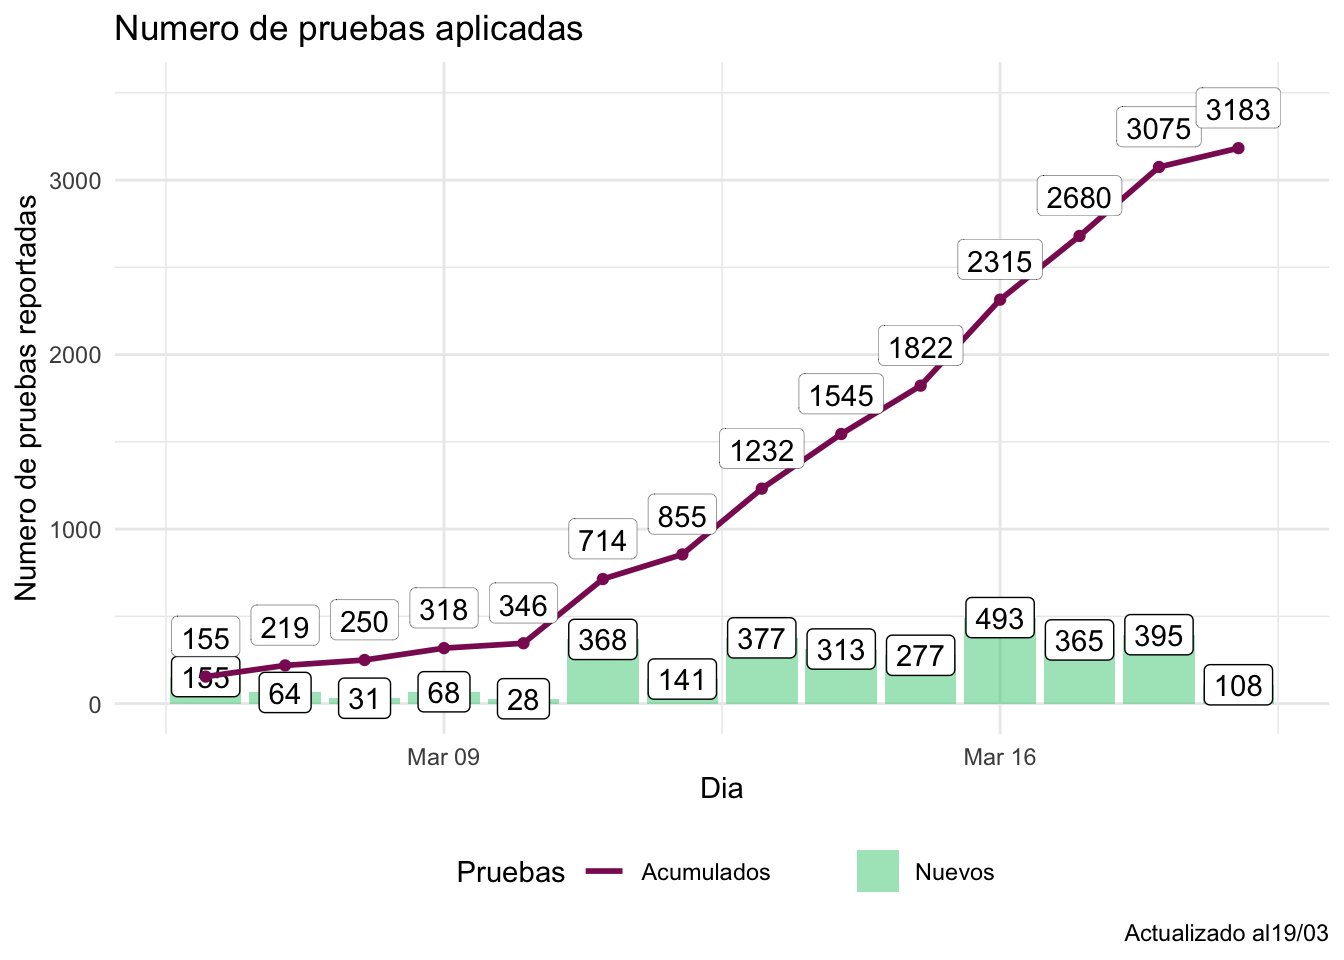
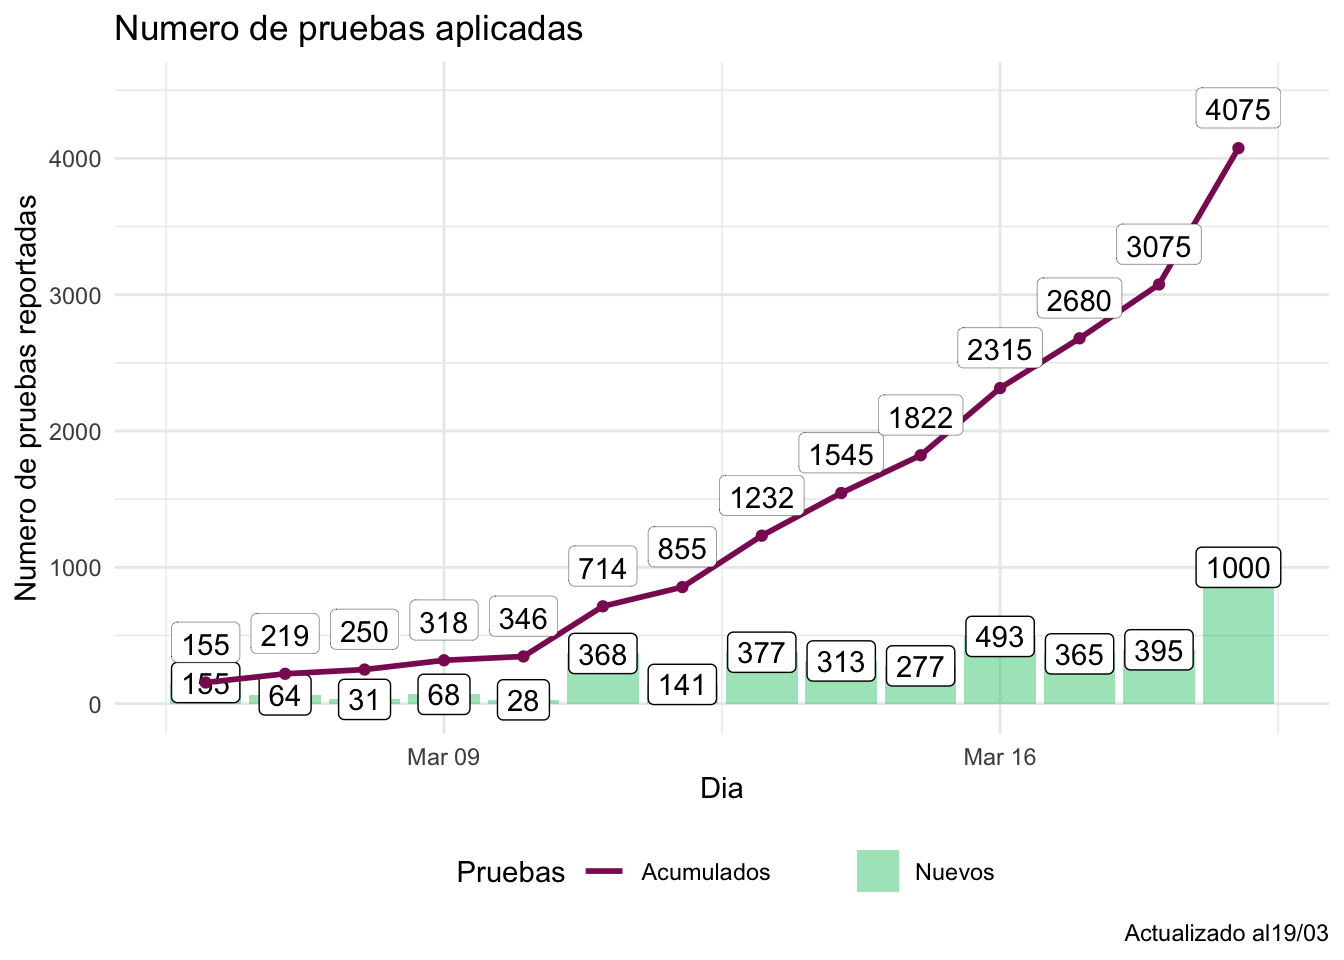
update_03_19

diff --git a/docs/Propagacion.html b/docs/Propagacion.html
@@ -650,16 +650,16 @@ Nuevos_Positivos
 2020-03-19
 </td>
 <td style="text-align:right;">
-155
+234
 </td>
 <td style="text-align:right;">
-3183
+4075
 </td>
 <td style="text-align:right;">
-108
+1000
 </td>
 <td style="text-align:right;">
-10
+89
 </td>
 </tr>
 </tbody>
